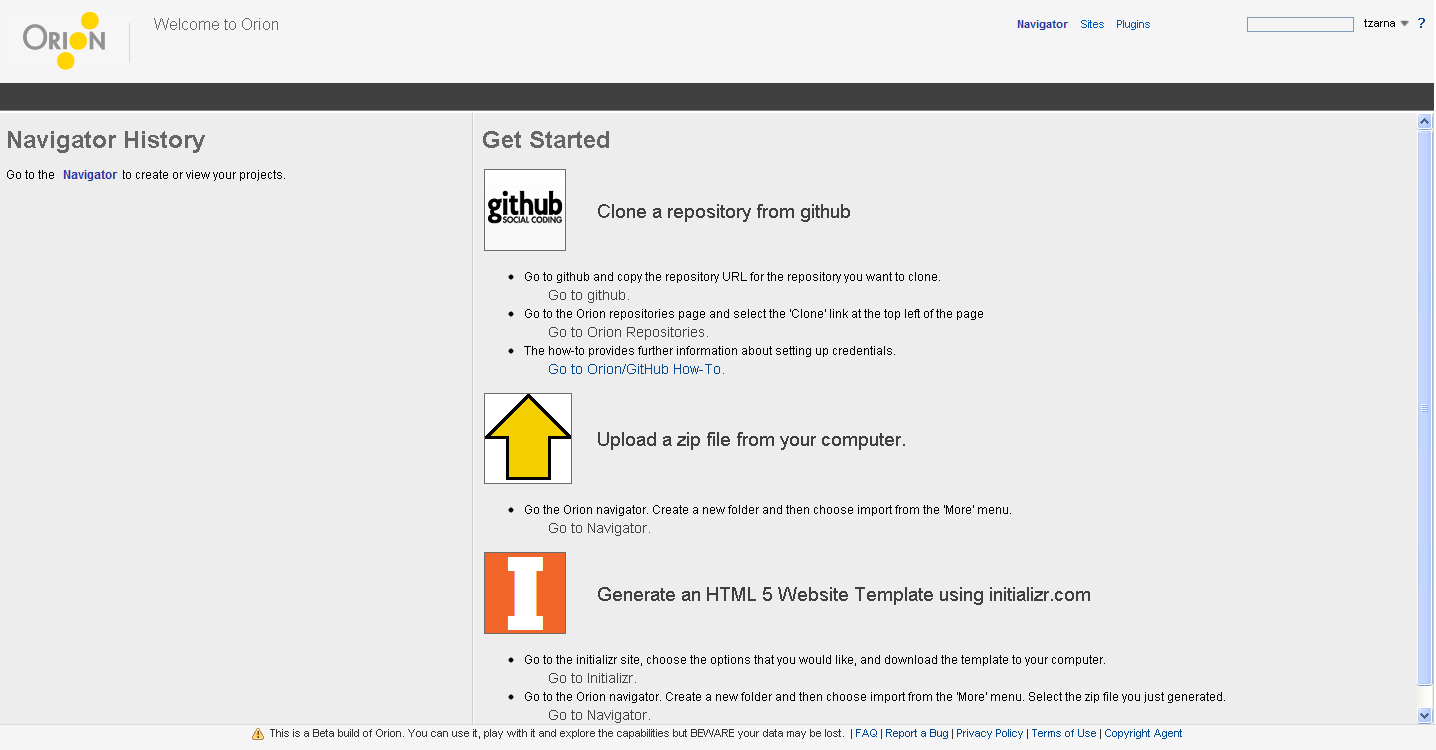
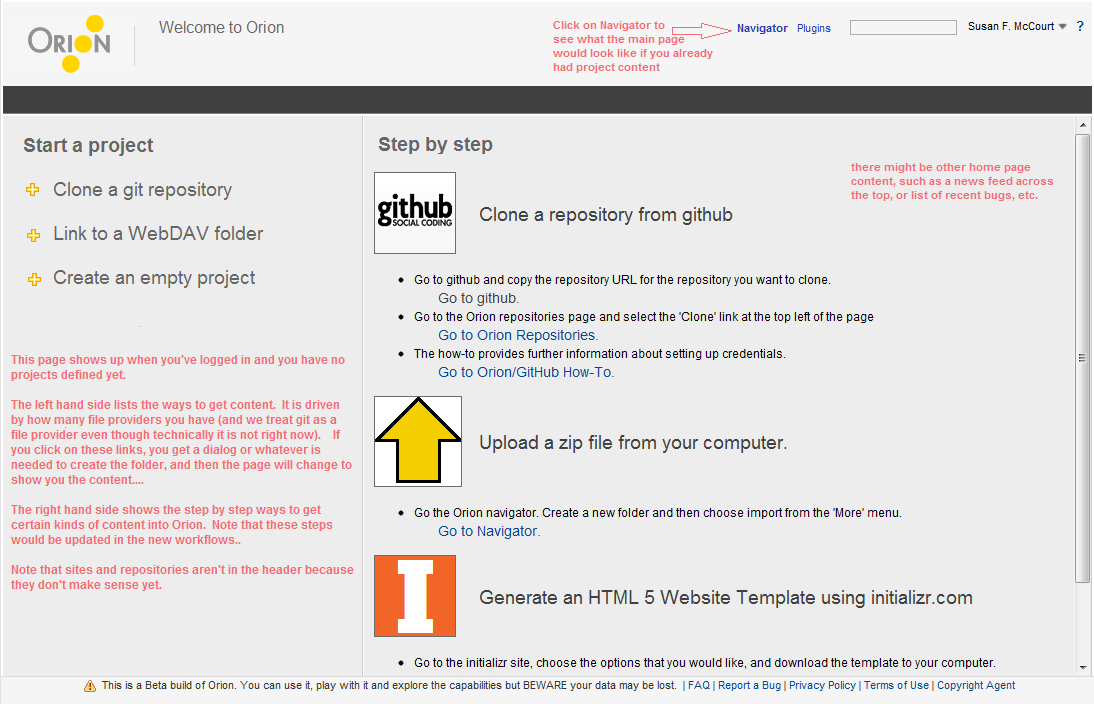
add two mockups of home page - the user with no projects yet, and the user who has already been working in orion

diff --git a/index.html b/index.html
@@ -1,6 +1,5 @@
 <img src="index.png" usemap="#map" border="0"/>
 
 <map name="map">
-  	<area shape="rect" coords="1021,18,1077,41" href="navigator.html" alt="Navigator" />
-  	<area shape="rect" coords="57,166,119,184" href="navigator.html" alt="Navigator" />
+  	<area shape="rect" coords="727,22,793,49" href="emptynav.html" alt="Navigator" />
 </map>

diff --git a/emptynav.html b/emptynav.html
@@ -1,0 +1,6 @@
+<img src="navnolocation.png" usemap="#map" border="0"/>
+
+<map name="map">
+  	<area shape="rect" coords="328,356,497,403" href="index.html" alt="Home page" />
+  	<area shape="rect" coords="0,336,177,361" href="navigator.html" alt="Navigator page" />
+</map>
